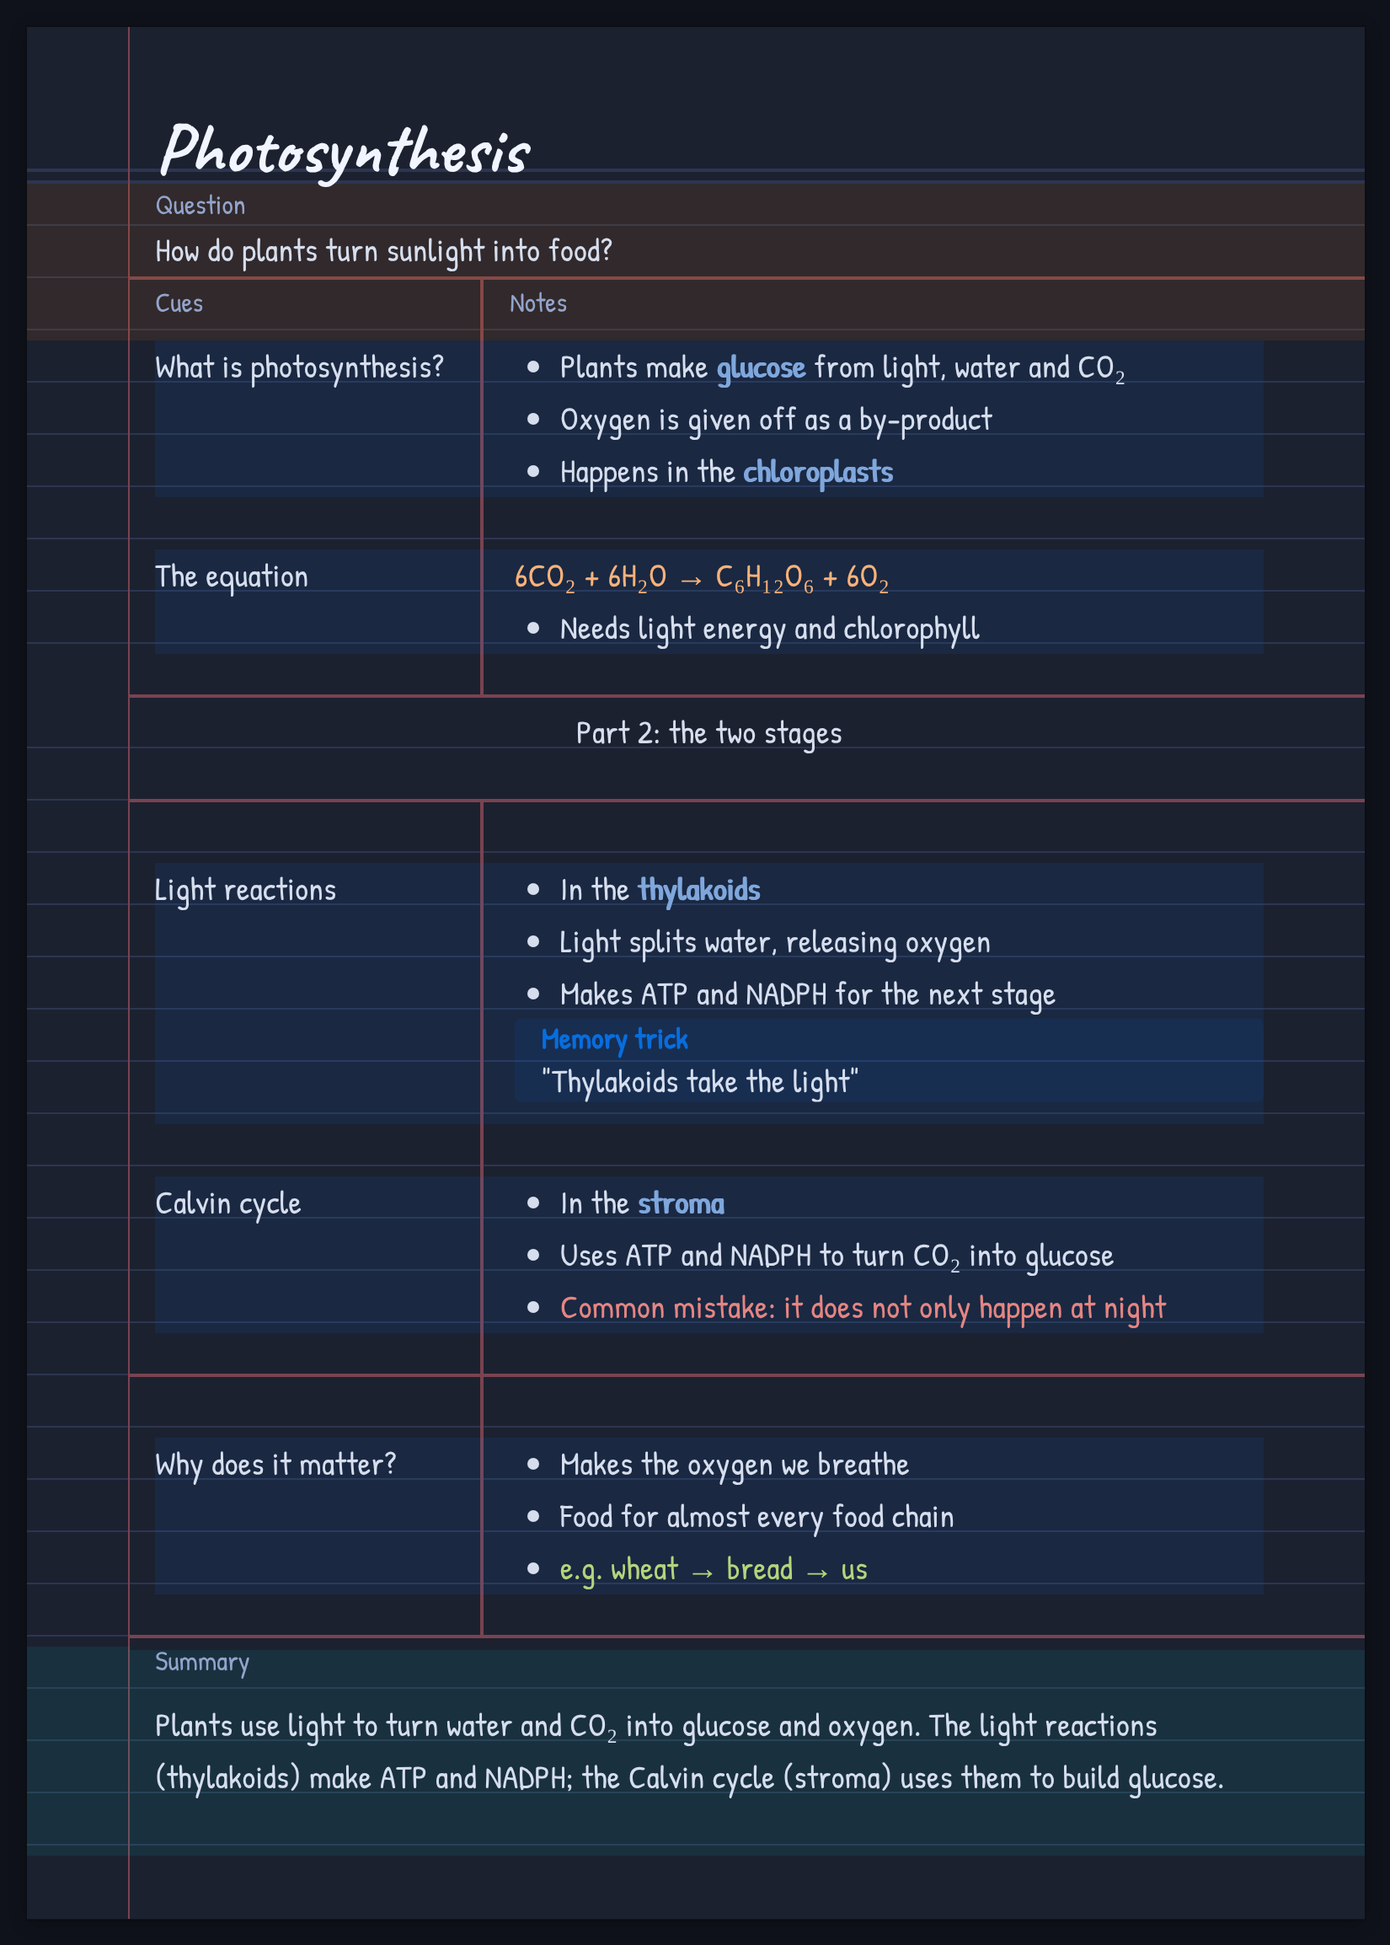
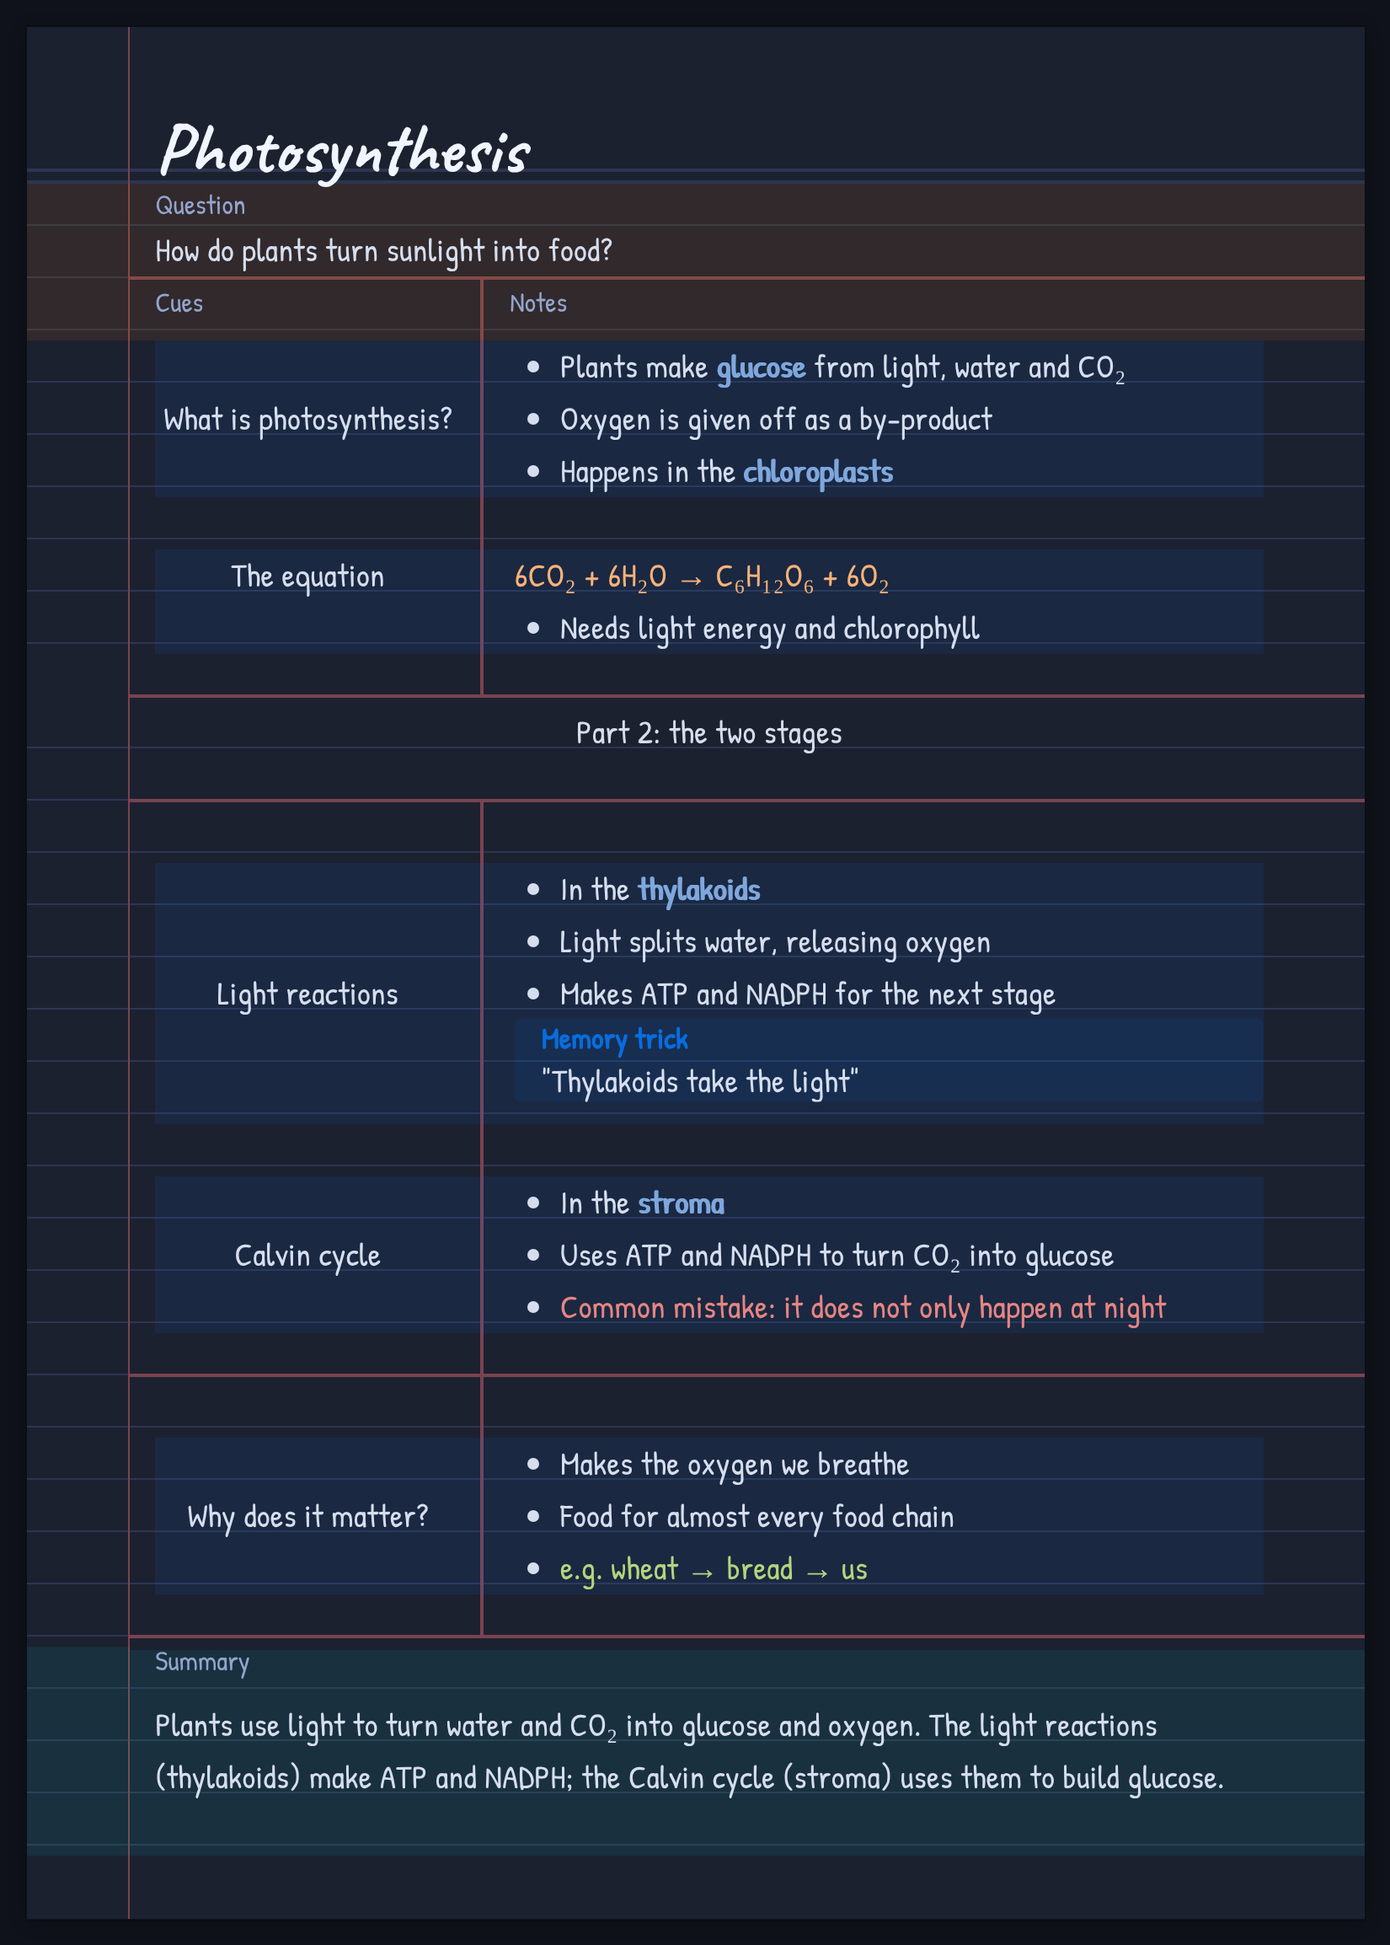
Centred cues: centred text, and a short cue in the middle of its notes on the ruled lines
Claude-Session: https://claude.ai/code/session_017nigWqws9EFca1zJKhGji6

diff --git a/main.js b/main.js
@@ -327,6 +327,96 @@ function autoBreaks(root, undo) {
   }
 }
 
+// A cue is centred beside its notes: when it takes fewer lines than its notes (and they fit on a
+// page), it moves down by whole lines to the middle of them (on the ruled lines: with an odd number left over, half a line
+// higher than the exact middle). CSS can centre, but not on whole lines, so it is measured here and
+// handed to the CSS (--lp-cue-shift, in lines: cornell-notes.css). Measured at the A4 page's width,
+// also while an export is prepared in a window that is not A4 wide.
+// (the shifts reading view settled on, after laying out its pages: a cue whose group runs over two
+// pages is not moved. The PDF, prepared without pages, uses them; the same note, the same groups.)
+let cueShiftMemo = new Map();
+// (a group's words, without spaces: in reading view a group run over two pages has its words in two
+// blocks, which are given together)
+const textOf = (callout) => { const c = callout.querySelector(':scope > .callout-content'); return c ? c.textContent : ''; };
+const cueKey = (cueText, notesText) => (cueText + '\u0000' + notesText).replace(/\s+/g, '');
+function centreCues(root, undo, later) {
+  const view = root.closest ? (root.closest('.markdown-preview-view.lined-paper.cornell') || root.querySelector('.markdown-preview-view.lined-paper.cornell')) : null;
+  if (!view) return;
+  const groups = Array.from(view.querySelectorAll('blockquote')).filter((bq) => bq.querySelector(':scope > .callout[data-callout="cue"]') && bq.querySelector(':scope > .callout[data-callout="notes"]') && !bq.closest('.markdown-embed:not(.lp-embed-copy)'));
+  if (!groups.length) return;
+  // (preparing a PDF: the note is measured as reading view's A4 page lays it out, at its width)
+  const reading = !!view.closest('.markdown-reading-view');
+  const saved = reading ? null : view.getAttribute('style');
+  let wrap = null;
+  if (!reading) {
+    wrap = document.createElement('div');
+    wrap.className = 'markdown-reading-view';
+    view.before(wrap);
+    wrap.appendChild(view);
+    view.style.setProperty('width', '210mm', 'important');
+    view.style.setProperty('max-width', 'none', 'important');
+    view.style.setProperty('box-sizing', 'border-box', 'important');
+    view.style.setProperty('padding-left', 'var(--pad-x)', 'important');
+    view.style.setProperty('padding-right', 'var(--pad-r)', 'important');
+  }
+  try {
+    const L = px(view, 'var(--line)');
+    if (!L) return;
+    const bodyRows = Math.round(px(view, 'calc(var(--body-rows) * 1px)'));
+    for (const bq of groups) {
+      const cue = bq.querySelector(':scope > .callout[data-callout="cue"]');
+      const notes = bq.querySelector(':scope > .callout[data-callout="notes"]');
+      const had = cue.hasAttribute('data-lp-shift');
+      cue.removeAttribute('data-lp-shift');
+      cue.style.removeProperty('--lp-cue-shift');
+      const cc = cue.querySelector(':scope > .callout-content'), nc = notes.querySelector(':scope > .callout-content');
+      if (!cc || !nc || !cc.textContent.trim()) continue;
+      const rows = (el) => Math.round(el.getBoundingClientRect().height / L);
+      // (notes longer than a page: the cue stays at the top, next to where they begin)
+      if (rows(nc) > bodyRows) continue;
+      let shift = Math.max(0, Math.floor((rows(nc) - rows(cc)) / 2));
+      const key = cueKey(textOf(cue), textOf(notes));
+      if (!reading && cueShiftMemo.has(key)) shift = cueShiftMemo.get(key);
+      if (shift) {
+        cue.setAttribute('data-lp-shift', String(shift));
+        if (undo && !had) undo.push({ t: 'attr', el: cue, name: 'data-lp-shift' });
+      }
+    }
+  } finally {
+    if (wrap) { wrap.before(view); wrap.remove(); if (saved == null) view.removeAttribute('style'); else view.setAttribute('style', saved); }
+  }
+  if (!later) applyCueShifts(view, undo);
+}
+// the cues are drawn lower only now: the pages are laid out with every cue where it is written, as
+// the PDF breaks its pages (a cue moved with `top` keeps its place in the layout). A cue continued on
+// the next sheet keeps its shift, as in the PDF.
+function settleCueShifts(view, undo) {
+  for (const cue of view.querySelectorAll('blockquote > .callout[data-callout="cue"]')) {
+    const bq = cue.parentElement;
+    const notes = bq.querySelector(':scope > .callout[data-callout="notes"]');
+    if (!notes || bq.closest('.lp-cont') || bq.closest('.markdown-embed:not(.lp-embed-copy)')) continue;
+    const block = topBlock(bq);
+    const next = block.nextElementSibling;
+    const split = (next && next.classList.contains('lp-cont') && next._lpAfter === block) || bq.getClientRects().length > 1;
+    if (split && cue.hasAttribute('data-lp-shift')) cue.removeAttribute('data-lp-shift');
+    // (the whole group: with the rest of it on the next sheets)
+    let cueText = textOf(cue), notesText = textOf(notes);
+    for (let n = next; n && n.classList.contains('lp-cont'); n = n.nextElementSibling) {
+      const c = n.querySelector('.callout[data-callout="cue"]'), t = n.querySelector('.callout[data-callout="notes"]');
+      if (c) { cueText += textOf(c); c.removeAttribute('data-lp-shift'); }   // (its rest: not moved either)
+      if (t) notesText += textOf(t);
+    }
+    cueShiftMemo.set(cueKey(cueText, notesText), +(cue.getAttribute('data-lp-shift') || 0));
+  }
+  applyCueShifts(view, undo);
+}
+function applyCueShifts(view, undo) {
+  for (const cue of view.querySelectorAll('.callout[data-callout="cue"][data-lp-shift]')) {
+    if (undo && cue.style.getPropertyValue('--lp-cue-shift') === '') undo.push({ t: 'prop', el: cue, name: '--lp-cue-shift' });
+    cue.style.setProperty('--lp-cue-shift', cue.getAttribute('data-lp-shift'));
+  }
+}
+
 // A [!summary] written before a [!nextpage] belongs to the part of the note above it: it goes on the
 // bottom rows of THAT page (not with the summary at the end of the note). The plugin's own pages place
 // it themselves (paginate); for the PDF and the browser's own pages it is tied, with anchors named for
@@ -745,6 +835,8 @@ function addPaperCommands(plugin) {
 
 module.exports = class LinedPaperPages extends Plugin {
   onload() {
+    if (this.cueShifts instanceof Map) cueShiftMemo = this.cueShifts;   // (tests: as one plugin, reading view and the PDF)
+    this.cueShifts = cueShiftMemo;
     this.states = new WeakMap();
     this.patchedRenderers = [];
     this.scan = this.scan.bind(this);
@@ -772,7 +864,7 @@ module.exports = class LinedPaperPages extends Plugin {
       window.setTimeout(() => fixColouredLinks(el, ctx, openLink), 0);
       // (also runs for PDF export; the callout may only be built after this, so look again shortly)
       // (reading view unwraps embeds in layout(), where it can be undone when the note changes)
-      const prep = () => { if (!el.closest('.markdown-reading-view')) { unwrapQuotedBlocks(el); unwrapCalloutEmbeds(el); fitTitles(el); } addSummarySizer(el); const v = el.closest('.print, .markdown-preview-view'); if (v && !el.closest('.markdown-reading-view')) { autoBreaks(v); anchorMidSummaries(v); } };
+      const prep = () => { if (!el.closest('.markdown-reading-view')) { unwrapQuotedBlocks(el); unwrapCalloutEmbeds(el); fitTitles(el); } addSummarySizer(el); const v = el.closest('.print, .markdown-preview-view'); if (v && !el.closest('.markdown-reading-view')) { autoBreaks(v); centreCues(v); anchorMidSummaries(v); } };
       prep();
       // (embeds fill in later still: look again whenever something inside changes, for a while)
       window.setTimeout(prep, 0);
@@ -802,12 +894,12 @@ module.exports = class LinedPaperPages extends Plugin {
       if (st) this.queue(view, st);
     }, true);
     // PDF export: make sure every summary has its copy before the page is printed
-    this.registerDomEvent(window, 'beforeprint', () => { unwrapQuotedBlocks(document.body); unwrapCalloutEmbeds(document.body); fitTitles(document.body); addSummarySizer(document.body); for (const pr of document.querySelectorAll('.print')) { autoBreaks(pr); anchorMidSummaries(pr); } });
+    this.registerDomEvent(window, 'beforeprint', () => { unwrapQuotedBlocks(document.body); unwrapCalloutEmbeds(document.body); fitTitles(document.body); addSummarySizer(document.body); for (const pr of document.querySelectorAll('.print')) { autoBreaks(pr); centreCues(pr); anchorMidSummaries(pr); } });
     this.registerInterval(window.setInterval(() => {
       if (this.setDpr()) again(); // (moved to a screen with other display scaling)
       this.scan(false);
       // PDF export: an embed that filled in late
-      for (const pr of document.querySelectorAll('.print')) { unwrapQuotedBlocks(pr); unwrapCalloutEmbeds(pr); fitTitles(pr); addSummarySizer(pr); autoBreaks(pr); anchorMidSummaries(pr); }
+      for (const pr of document.querySelectorAll('.print')) { unwrapQuotedBlocks(pr); unwrapCalloutEmbeds(pr); fitTitles(pr); addSummarySizer(pr); autoBreaks(pr); centreCues(pr); anchorMidSummaries(pr); }
     }, 1500));
 
     // Style Settings / snippets change CSS variables without touching the note's DOM
@@ -1035,6 +1127,7 @@ module.exports = class LinedPaperPages extends Plugin {
       unwrapCalloutEmbeds(view, st.undo);
       fitTitles(view, st.undo);
       addSummarySizer(view);
+      centreCues(view, st.undo, true);
       anchorMidSummaries(view, st.undo);
       if (this.cssPaged()) {
         // the browser paginates with CSS (lined-paper.css): only add the sheet shadows + labels
@@ -1046,6 +1139,7 @@ module.exports = class LinedPaperPages extends Plugin {
         view.classList.add('lp-paged');
         st.undo.push({ t: 'cls', el: view, name: 'lp-paged' });
       }
+      settleCueShifts(view, st.undo);
     } catch (e) {
       console.error('[lined-paper-pages]', e);
       if (!this.errorShown) {

diff --git a/styles.css b/styles.css
@@ -2657,8 +2657,7 @@ body.cn-hide-page-labels .lined-paper.cornell .lp-hdr { display: none !important
      next sheet whole (as in the PDF, and as the plugin does when it makes the pages) */
   html body:not(.lp-no-pages) .markdown-reading-view .markdown-preview-view.lined-paper :is(.callout:not([data-callout="cue"], [data-callout="notes"]), pre, table, img, .image-embed) {
     break-inside: avoid;
-  }
-  /* a heading is never left at the bottom of a sheet without its text (as in the PDF, section 9) */
+  }  /* a heading is never left at the bottom of a sheet without its text (as in the PDF, section 9) */
   html body:not(.lp-no-pages) .markdown-reading-view .markdown-preview-view.lined-paper :is(h2, h3, h4, h5, h6),
   html body:not(.lp-no-pages) .markdown-reading-view .markdown-preview-view.lined-paper .markdown-preview-section > div:has(> :is(h2, h3, h4, h5, h6)) { break-after: avoid; }
 
@@ -4402,4 +4401,23 @@ html body .markdown-source-view.lined-paper .callout.callout.callout[data-callou
   .lined-paper.cornell {
     --lp-break-gap: calc(var(--tail-print) + var(--head-h));
   }
+}
+
+/* =====================================================================
+   CUES: CENTRED
+   =====================================================================
+   A cue's text is centred in the cue column. A cue shorter than its notes sits in the middle of the
+   lines the notes take, on the ruled lines (the plugin works out how many lines down:
+   --lp-cue-shift, main.js centreCues); a cue as long as its notes, or longer, starts at the top. */
+.lined-paper.cornell .callout[data-callout="cue"] > .callout-content :is(p, h2, h3, h4, h5, h6, li) {
+  text-align: center !important;
+}
+.lined-paper.cornell .callout[data-callout="cue"] > .callout-content > :is(ul, ol) {
+  list-style-position: inside;
+  padding-inline-start: 0 !important;
+}
+/* (drawn lower, not laid out lower: where the pages break stays the same as in the PDF) */
+.lined-paper.cornell .callout[data-callout="cue"] > .callout-content {
+  position: relative;
+  top: calc(var(--lp-cue-shift, 0) * var(--line));
 }

diff --git a/tests/lib/harness.js b/tests/lib/harness.js
@@ -45,7 +45,7 @@ async function closeBrowsers() {
 // ---------- the plugin, in the page ----------
 // Loads main.js with a stand-in for the `obsidian` module. `options.export` collects the
 // markdown post-processors (the PDF export runs them) instead of starting the reading view.
-function installPlugin({ src, exportMode, extra }) {
+function installPlugin({ src, exportMode, extra, shared }) {
   const processors = [];
   const app = { workspace: { on: () => ({}), getLeavesOfType: () => [], openLinkText: () => {} } };
   class Plugin {
@@ -59,6 +59,8 @@ function installPlugin({ src, exportMode, extra }) {
   const module = { exports: {} };
   new Function('require', 'module', src)((name) => (name === 'obsidian' ? obsidian : (extra && extra[name]) || {}), module);
   const plugin = new module.exports();
+  // (what reading view settled on, handed to the export as Obsidian's one plugin would have it)
+  if (shared && shared.cueShifts) plugin.cueShifts = new Map(shared.cueShifts);
   if (exportMode) plugin.scheduleScan = () => {};
   plugin.onload();
   if (exportMode) for (const el of document.querySelectorAll('.markdown-preview-view > div')) for (const f of processors) f(el, {});
@@ -166,7 +168,8 @@ async function render(note, options = {}) {
     exportPage.on('pageerror', (e) => errors.push(e.message));
     await exportPage.setContent(pages(note, theme, fonts, plugin).print);
     if (fonts) await exportPage.evaluate(() => document.fonts.ready);
-    await exportPage.evaluate(installPlugin, { src: plugin && postProcess ? MAIN : NO_PLUGIN, exportMode: true });
+    const shared = { cueShifts: await page.evaluate(() => (window.plugin && window.plugin.cueShifts ? [...window.plugin.cueShifts] : null)) };
+    await exportPage.evaluate(installPlugin, { src: plugin && postProcess ? MAIN : NO_PLUGIN, exportMode: true, shared });
     await exportPage.waitForTimeout(50);
     const file = path.join(fs.mkdtempSync(path.join(os.tmpdir(), 'lpp-')), 'export.pdf');
     await exportPage.pdf({ path: file, preferCSSPageSize: true, printBackground: true });

diff --git a/snippets/cornell-notes.css b/snippets/cornell-notes.css
@@ -1371,3 +1371,22 @@ html body .markdown-source-view.lined-paper .callout.callout.callout[data-callou
     --lp-break-gap: calc(var(--tail-print) + var(--head-h));
   }
 }
+
+/* =====================================================================
+   CUES: CENTRED
+   =====================================================================
+   A cue's text is centred in the cue column. A cue shorter than its notes sits in the middle of the
+   lines the notes take, on the ruled lines (the plugin works out how many lines down:
+   --lp-cue-shift, main.js centreCues); a cue as long as its notes, or longer, starts at the top. */
+.lined-paper.cornell .callout[data-callout="cue"] > .callout-content :is(p, h2, h3, h4, h5, h6, li) {
+  text-align: center !important;
+}
+.lined-paper.cornell .callout[data-callout="cue"] > .callout-content > :is(ul, ol) {
+  list-style-position: inside;
+  padding-inline-start: 0 !important;
+}
+/* (drawn lower, not laid out lower: where the pages break stays the same as in the PDF) */
+.lined-paper.cornell .callout[data-callout="cue"] > .callout-content {
+  position: relative;
+  top: calc(var(--lp-cue-shift, 0) * var(--line));
+}

diff --git a/snippets/lined-paper.css b/snippets/lined-paper.css
@@ -2589,8 +2589,7 @@ body.cn-hide-page-labels .lined-paper.cornell .lp-hdr { display: none !important
      next sheet whole (as in the PDF, and as the plugin does when it makes the pages) */
   html body:not(.lp-no-pages) .markdown-reading-view .markdown-preview-view.lined-paper :is(.callout:not([data-callout="cue"], [data-callout="notes"]), pre, table, img, .image-embed) {
     break-inside: avoid;
-  }
-  /* a heading is never left at the bottom of a sheet without its text (as in the PDF, section 9) */
+  }  /* a heading is never left at the bottom of a sheet without its text (as in the PDF, section 9) */
   html body:not(.lp-no-pages) .markdown-reading-view .markdown-preview-view.lined-paper :is(h2, h3, h4, h5, h6),
   html body:not(.lp-no-pages) .markdown-reading-view .markdown-preview-view.lined-paper .markdown-preview-section > div:has(> :is(h2, h3, h4, h5, h6)) { break-after: avoid; }
 

diff --git a/CHANGELOG.md b/CHANGELOG.md
@@ -6,6 +6,15 @@ All notable changes to this project are documented here. The format follows
 
 ## [Unreleased]
 
+## [1.14.0] - 2026-11-01
+
+### Changed
+- Cues are centred: their text is centred in the cue column, and a cue shorter than its notes sits
+  in the middle of the lines the notes take, on the ruled lines. A cue as long as its notes, or a
+  group that runs over two pages, keeps the cue at the top. Reading view and the PDF (the PDF uses
+  the places reading view worked out; a note exported without having been shown in reading view is
+  measured for it).
+
 ## [1.13.4] - 2026-10-29
 
 ### Fixed
@@ -337,7 +346,8 @@ All notable changes to this project are documented here. The format follows
 1.0 – 1.6: lined paper and Cornell snippets, A4 pagination in reading view, the summary at the
 bottom of the last page, callouts and pictures on the rows, reading view matching the PDF export.
 
-[Unreleased]: ../../compare/1.13.4...HEAD
+[Unreleased]: ../../compare/1.14.0...HEAD
+[1.14.0]: ../../compare/1.13.4...1.14.0
 [1.13.4]: ../../compare/1.13.3...1.13.4
 [1.13.3]: ../../compare/1.13.2...1.13.3
 [1.13.2]: ../../compare/1.13.1...1.13.2

diff --git a/docs/writing-notes.md b/docs/writing-notes.md
@@ -108,6 +108,11 @@ Or as two separate callouts:
 > X is ...
 ```
 
+Cues are centred in the cue column. A cue shorter than its notes sits in the middle of the lines the
+notes take, always on a ruled line (with an odd number of lines to spare, half a line above the exact
+middle); a cue as long as its notes or longer starts at the top. When a group runs over two pages,
+or its notes are longer than a page, the cue stays at the top, next to where the notes begin.
+
 Long notes continue on the next page, in the notes column. A cue that is too long continues in
 the cue column.
 
